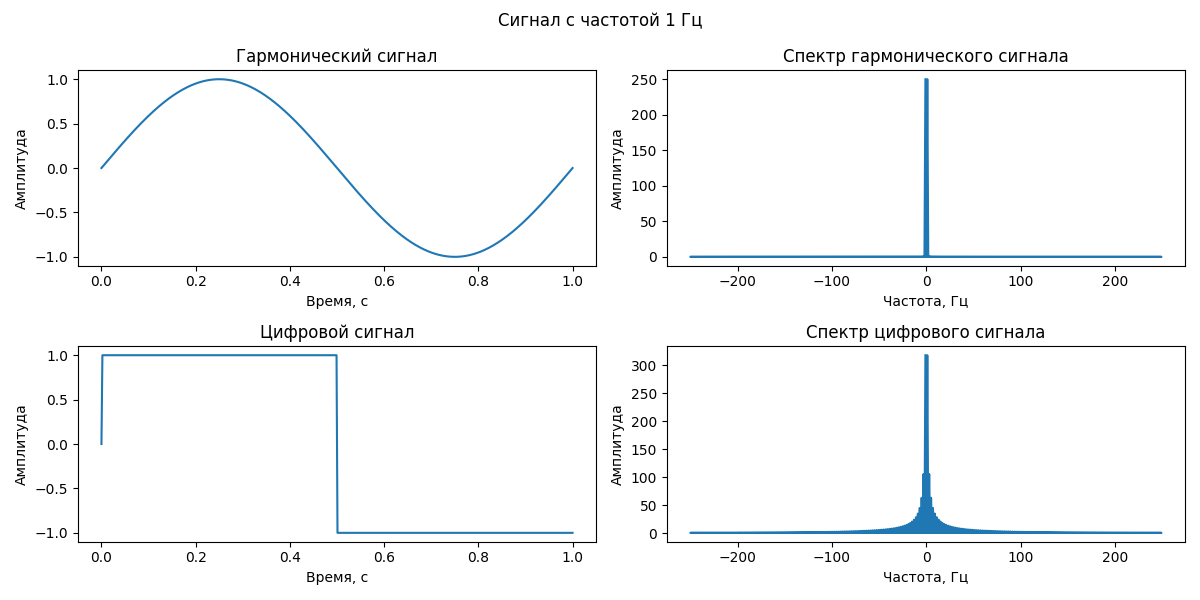
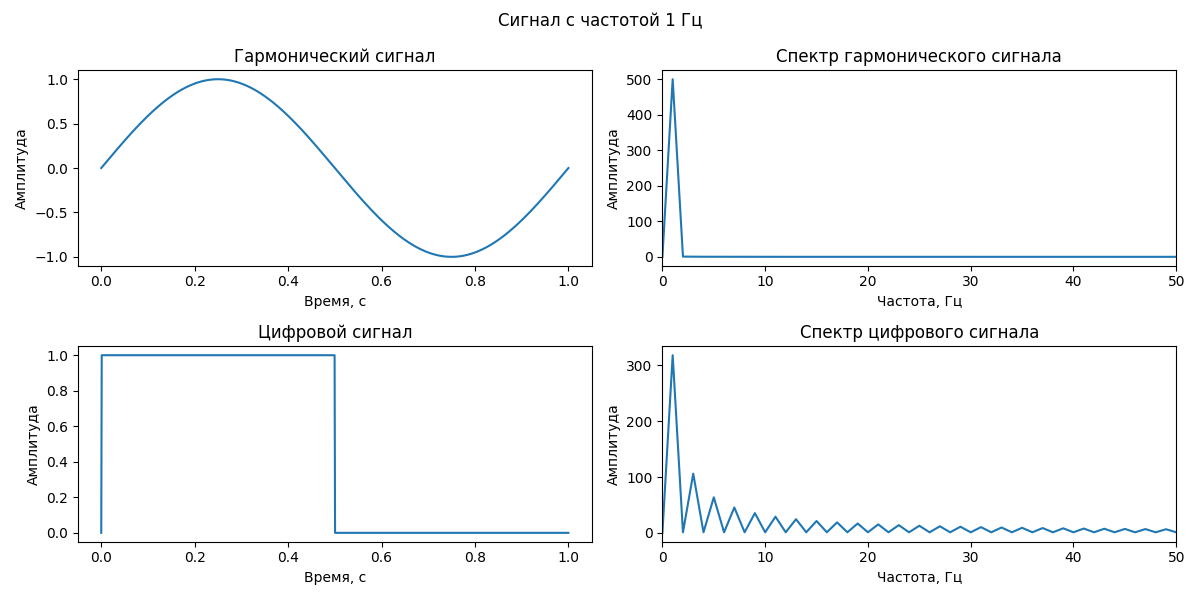
I took into account all the teacher's comments

diff --git a/main.py b/main.py
@@ -2,16 +2,6 @@ import numpy as np
 import matplotlib.pyplot as plt
 
 
-# def read_signal_frequency():
-#     while True:
-#         entered_string = input('Введите целую частоту сигнала в Гц: ')
-#         try:
-#             signal_frequency = int(entered_string)
-#             return signal_frequency
-#         except ValueError:
-#             print("Ошибка: Введенная строка не является целым числом. Пожалуйста, попробуйте снова.")
-
-
 def build_graph(type_signal, graph_number, t, signal, frequencies, signal_spectrum):
     plt.subplot(2, 2, graph_number)
     plt.plot(t, signal)
@@ -19,22 +9,25 @@ def build_graph(type_signal, graph_number, t, signal, frequencies, signal_spectr
     plt.xlabel('Время, с')
     plt.ylabel('Амплитуда')
 
+    signal_spectrum[0] = 0
     title_spectrum_graph = 'Спектр ' + type_signal[0].lower() + type_signal[1: -2] + 'ого сигнала'
+
     plt.subplot(2, 2, graph_number + 1)
-    plt.plot(frequencies, np.abs(signal_spectrum))
+    plt.plot(frequencies[:len(frequencies) // 2], np.abs(signal_spectrum[:len(signal_spectrum) // 2]))
     plt.title(title_spectrum_graph)
     plt.xlabel('Частота, Гц')
+    plt.xlim(0, 50)
     plt.ylabel('Амплитуда')
 
 
 def calculate_spectra_and_build_graphs(frequency):
     duration = 1
-    sampling_rate = 500
+    sampling_rate = 1000
 
     t = np.linspace(0, duration, sampling_rate * duration)
 
     harmonic_signal = np.sin(2 * np.pi * frequency * t)
-    digital_signal = np.sign(harmonic_signal)
+    digital_signal = np.where(harmonic_signal > 0, 1, 0)
 
     harmonic_signal_spectrum = np.fft.fft(harmonic_signal)
     frequencies_for_harmonic_signal_spectrum = np.fft.fftfreq(len(harmonic_signal_spectrum), 1 / sampling_rate)
